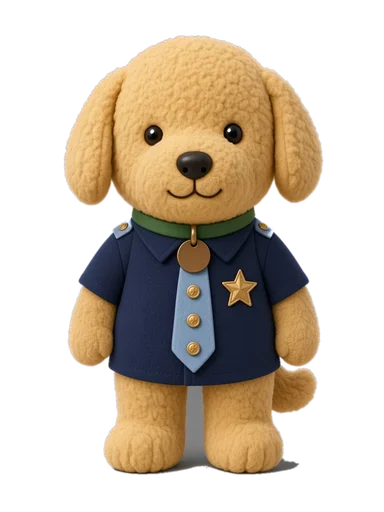
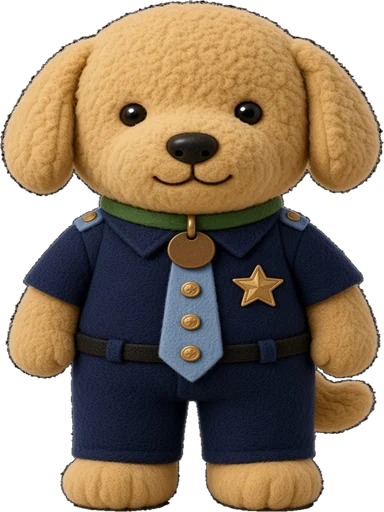
きせかえの位置を直し、警察官にズボンを追加 (v24)

diff --git a/data/shop.js b/data/shop.js
@@ -110,15 +110,15 @@ const ITEMS = [
   { id: "dogi", category: "clothes", slot: "clothes", name: "どうぎ", icon: "🥋", price: 500, image: "img/items/dogi.webp", wear: { w: 1.45, dy: 3 } },
   { id: "kimono", category: "clothes", slot: "clothes", name: "きもの", icon: "👘", price: 700, image: "img/items/kimono.webp", wear: { w: 1.4, dy: 3 } },
   { id: "delivery", category: "clothes", slot: "clothes", name: "はいたついん", icon: "📦", price: 500, image: "img/items/delivery.webp",
-    wear: { head: { image: "img/items/deliverycap.webp", w: 1.0, y: 7 } } },
+    wear: { head: { image: "img/items/deliverycap.webp", w: 1.1, y: 16 } } },
   { id: "chef", category: "clothes", slot: "clothes", name: "シェフ", icon: "🧑🍳", price: 550, image: "img/items/chef.webp",
     wear: { head: { image: "img/items/chefhat.webp", w: 0.85, y: 6 } } },
   { id: "waitress", category: "clothes", slot: "clothes", name: "ウェイトレス", icon: "☕", price: 500, image: "img/items/waitress.webp",
-    wear: { head: { image: "img/items/katyusha.webp", w: 0.9, y: 7 } } },
+    wear: { head: { image: "img/items/katyusha.webp", w: 1.15, y: 18 } } },
   { id: "ca", category: "clothes", slot: "clothes", name: "キャビンアテンダント", icon: "✈", price: 650, image: "img/items/ca.webp",
     wear: { head: { image: "img/items/cacap.webp", w: 0.7, y: 9 } } },
   { id: "wedding", category: "clothes", slot: "clothes", name: "ウェディングドレス", icon: "👰", price: 950, image: "img/items/wedding.webp",
-    wear: { head: { image: "img/items/veil.webp", w: 1.35, y: 33 } } },
+    wear: { head: { image: "img/items/veil.webp", w: 1.45, y: 26 } } },
   { id: "nurse", category: "clothes", slot: "clothes", name: "ナースふく", icon: "👩⚕", price: 550, image: "img/items/nurse.webp",
     wear: { w: 1.35, dy: 3, head: { image: "img/items/nursecap.webp", w: 0.75, y: 9 } } },
   { id: "police", category: "clothes", slot: "clothes", name: "けいさつかん", icon: "👮", price: 600, image: "img/items/police.webp",
@@ -128,18 +128,18 @@ const ITEMS = [
   { id: "heroine", category: "clothes", slot: "clothes", name: "プリキュア", icon: "💖", price: 900, image: "img/items/heroine.webp",
     wear: { w: 1.6, dy: 4, head: { image: "img/items/heroinebow.webp", w: 0.5, x: 0.3, y: 7 } } },
   { id: "robot", category: "clothes", slot: "clothes", name: "ロボット", icon: "🤖", price: 1000, image: "img/items/robot.webp",
-    wear: { w: 2.1, dy: 3, head: { image: "img/items/robothead.webp", w: 0.95, y: 14 } } },
+    wear: { w: 2.1, dy: 3, head: { image: "img/items/robothead.webp", w: 1.2, y: 28 } } },
 
   // アクセサリ（もつもの）
   { id: "basket", category: "accessory", slot: "bag", name: "かご", icon: "🧺", price: 330, image: "img/items/basket.webp", wear: { hold: "hand", w: 30, ay: 0.08 } },
-  { id: "tote", category: "accessory", slot: "bag", name: "トートバッグ", icon: "👜", price: 330, image: "img/items/tote.webp", wear: { hold: "shoulder", w: 30, side: "img/items/tote_side.webp" } },
+  { id: "tote", category: "accessory", slot: "bag", name: "トートバッグ", icon: "👜", price: 330, image: "img/items/tote.webp", wear: { hold: "shoulder", w: 28, kx: 0.34, ky: -6, side: "img/items/tote_side.webp" } },
   { id: "handbag", category: "accessory", slot: "bag", name: "ハンドバッグ", icon: "👛", price: 350, image: "img/items/handbag.webp", wear: { hold: "hand", w: 26, ay: 0.05, side: "img/items/handbag_side.webp" } },
   { id: "present", category: "accessory", slot: "bag", name: "プレゼント", icon: "🎁", price: 350, image: "img/items/present.webp", wear: { hold: "both", w: 42 } },
   { id: "hammer", category: "accessory", slot: "bag", name: "ピコピコハンマー", icon: "🔨", price: 380, image: "img/items/hammer.webp", wear: { hold: "hand", w: 26, ay: 0.85 } },
   { id: "backpack", category: "accessory", slot: "bag", name: "ランドセル", icon: "🎒", price: 400, image: "img/items/backpack.webp", wear: { hold: "back", w: 1.2, front: "img/items/backpack_straps.webp" } },
-  { id: "parasol", category: "accessory", slot: "bag", name: "ひがさ", icon: "⛱", price: 400, image: "img/items/parasol.webp", wear: { hold: "hand", w: 50, ax: 0.42, ay: 0.92, behind: true } },
+  { id: "parasol", category: "accessory", slot: "bag", name: "ひがさ", icon: "⛱", price: 400, image: "img/items/parasol.webp", wear: { hold: "hand", w: 80, ax: 0.55, ay: 0.94, behind: true } },
   { id: "briefcase", category: "accessory", slot: "bag", name: "かばん", icon: "💼", price: 450, image: "img/items/briefcase.webp", wear: { hold: "hand", w: 30, ay: 0.05, side: "img/items/briefcase_side.webp" } },
-  { id: "boston", category: "accessory", slot: "bag", name: "ボストンバッグ", icon: "👜", price: 450, image: "img/items/boston.webp", wear: { hold: "hand", w: 30, ay: 0.05, side: "img/items/boston_side.webp" } },
+  { id: "boston", category: "accessory", slot: "bag", name: "ボストンバッグ", icon: "👜", price: 450, image: "img/items/boston.webp", wear: { hold: "hand", w: 46, ay: 0.28, side: "img/items/boston_side.webp" } },
   { id: "carry", category: "accessory", slot: "bag", name: "キャリーバッグ", icon: "🧳", price: 500, image: "img/items/carry.webp", wear: { hold: "pull", w: 30, ay: 0.03, side: "img/items/carry_side.webp" } },
   { id: "hiking", category: "accessory", slot: "bag", name: "とざんの リュック", icon: "🏔", price: 550, image: "img/items/hiking.webp", wear: { hold: "back", w: 1.12, front: "img/items/hiking_straps.webp" } },
   { id: "stick", category: "accessory", slot: "bag", name: "まほうの ステッキ", icon: "🪄", price: 800, image: "img/items/stick.webp", wear: { hold: "hand", w: 26, ax: 0.3, ay: 0.72, side: "img/items/stick_side.webp" } },
@@ -148,20 +148,20 @@ const ITEMS = [
   { id: "sword", category: "accessory", slot: "bag", name: "せいけん", icon: "🗡", price: 1000, image: "img/items/sword.webp", wear: { hold: "hand", w: 36, ax: 0.2, ay: 0.82, side: "img/items/sword_side.webp" } },
 
   // こもの（あたま）
-  { id: "ribbon", category: "accessory", slot: "head", name: "リボン", icon: "🎀", price: 300, image: "img/items/ribbon.webp", wear: { w: 0.45, x: 0.32, y: 6 } },
-  { id: "hachimaki", category: "accessory", slot: "head", name: "はちまき", icon: "🎌", price: 300, image: "img/items/hachimaki.webp", wear: { w: 1.0, y: 14 } },
+  { id: "ribbon", category: "accessory", slot: "head", name: "リボン", icon: "🎀", price: 300, image: "img/items/ribbon.webp", wear: { w: 0.75, x: 0.32, y: 6 } },
+  { id: "hachimaki", category: "accessory", slot: "head", name: "はちまき", icon: "🎌", price: 300, image: "img/items/hachimaki.webp", wear: { w: 1.15, y: 20, by: { ribbon: { y: 24 }, pom: { y: 22 } } } },
   { id: "cap", category: "accessory", slot: "head", name: "キャップ", icon: "🧢", price: 350, image: "img/items/cap.webp", wear: { w: 1.1, y: 15 } },
-  { id: "strawhat", category: "accessory", slot: "head", name: "むぎわらぼうし", icon: "👒", price: 400, image: "img/items/strawhat.webp", wear: { w: 1.6, y: 13 } },
-  { id: "goggles", category: "accessory", slot: "head", name: "ゴーグル", icon: "🥽", price: 400, image: "img/items/goggles.webp", wear: { w: 0.95, y: 12 } },
+  { id: "strawhat", category: "accessory", slot: "head", name: "むぎわらぼうし", icon: "👒", price: 400, image: "img/items/strawhat.webp", wear: { w: 1.4, y: 22 } },
+  { id: "goggles", category: "accessory", slot: "head", name: "ゴーグル", icon: "🥽", price: 400, image: "img/items/goggles.webp", wear: { w: 0.95, y: 12, by: { ribbon: { w: 1.25, y: 26 }, pom: { w: 1.3, y: 32 } } } },
   { id: "tophat", category: "accessory", slot: "head", name: "シルクハット", icon: "🎩", price: 500, image: "img/items/tophat.webp", wear: { w: 1.05, y: 11 } },
-  { id: "halo", category: "accessory", slot: "head", name: "てんしの わ", icon: "😇", price: 500, image: "img/items/halo.webp", wear: { w: 0.55, y: -2 } },
+  { id: "halo", category: "accessory", slot: "head", name: "てんしの わ", icon: "😇", price: 500, image: "img/items/halo.webp", wear: { w: 0.8, y: -4 } },
   { id: "horns", category: "accessory", slot: "head", name: "あくまの つの", icon: "😈", price: 500, image: "img/items/horns.webp", wear: { w: 0.8, y: 5 } },
   { id: "gradcap", category: "accessory", slot: "head", name: "はかせぼう", icon: "🎓", price: 600, image: "img/items/gradcap.webp", wear: { w: 1.25, y: 12 } },
   { id: "witch", category: "accessory", slot: "head", name: "まじょの ぼうし", icon: "🧙", price: 600, image: "img/items/witch.webp", wear: { w: 1.15, y: 10 } },
   { id: "crown", category: "accessory", slot: "head", name: "おうかん", icon: "👑", price: 1000, image: "img/items/crown.webp", wear: { w: 0.95, y: 9 } },
-  { id: "tiara", category: "accessory", slot: "head", name: "ティアラ", icon: "💎", price: 500, image: "img/items/tiara_deluxe.webp", wear: { w: 0.85, y: 9 } },
+  { id: "tiara", category: "accessory", slot: "head", name: "ティアラ", icon: "💎", price: 500, image: "img/items/tiara_deluxe.webp", wear: { w: 1.35, y: 13 } },
   { id: "knit", category: "accessory", slot: "head", name: "ニットぼう", icon: "🧶", price: 350, image: "img/items/knit.webp", wear: { w: 1.0, y: 11 } },
-  { id: "santa", category: "accessory", slot: "head", name: "サンタの ぼうし", icon: "🎅", price: 450, image: "img/items/santa.webp", wear: { w: 1.2, y: 11 } },
+  { id: "santa", category: "accessory", slot: "head", name: "サンタの ぼうし", icon: "🎅", price: 450, image: "img/items/santa.webp", wear: { w: 1.15, y: 15, x: -0.05 } },
   { id: "pirate", category: "accessory", slot: "head", name: "かいぞくの ぼうし", icon: "🏴☠", price: 500, image: "img/items/pirate.webp", wear: { w: 1.3, y: 10 } },
 ];
 

diff --git a/js/util.js b/js/util.js
@@ -117,7 +117,7 @@ function addWear(wrap, charId, mood) {
     // 日傘のように 顔に かぶる ものや はねは、前から見たとき 体の うしろに まわす
     const behind = bag.wear && (bag.wear.behind || hold === "wings") && !back ? " wear-behind" : "";
     const node = renderItemVisual(shown, `wear wear-bag mood-${mood}${behind}`);
-    fitWear(node, "bag", bag.image && bag.wear, f, back);
+    fitWear(node, "bag", bag.image && bag.wear, f, back, charId);
     wrap.appendChild(node);
   }
 
@@ -126,14 +126,16 @@ function addWear(wrap, charId, mood) {
   const head = get("head") || (set && { image: set.image, name: clothes.name, wear: set });
   if (head) {
     const node = renderItemVisual(view(head), `wear wear-head mood-${mood}`);
-    fitWear(node, "head", head.image && head.wear, f, back);
+    fitWear(node, "head", head.image && head.wear, f, back, charId);
     wrap.appendChild(node);
   }
 }
 
 // 画像の服・こものを、キャラの体の位置と大きさに合わせる（絵文字のものは CSS の位置のまま）
-function fitWear(node, slot, w, f, back = false) {
+function fitWear(node, slot, w, f, back = false, charId = "") {
   if (!w || !f) return;
+  // キャラごとに 位置を かえる（耳や はっぱで 頭の形が ちがうため）
+  if (w.by && w.by[charId]) w = { ...w, ...w.by[charId] };
   const s = node.style;
   if (slot === "head") {
     // 頭の大きさに対して、キャラごとに ぼうしの大きさを ちょうせいする（hatScale）
@@ -163,10 +165,10 @@ function fitWear(node, slot, w, f, back = false) {
     s.top = f.neck + 14 + "%";
     s.transform = "translate(-50%, -50%)";
   } else if (w.hold === "shoulder") {
-    // かたひもの上のはしを かたに かけて、体の よこに さげる
+    // 肩ひもの 上はしを かたに かけて、体の よこに さげる
     s.width = w.w + "%";
-    s.left = f.bodyX + f.bodyW * 0.38 + "%";
-    s.top = f.neck + 1 + "%";
+    s.left = f.bodyX + f.bodyW * (w.kx ?? 0.42) + "%";
+    s.top = f.neck + (w.ky ?? 0) + "%";
     s.transform = "translate(-50%, 0)";
   } else {
     // hand・pull: 絵の (ax, ay) の ところを 手の位置に あわせる

diff --git a/sw.js b/sw.js
@@ -1,5 +1,5 @@
 // ファイルを更新したら CACHE の番号を上げる
-const CACHE = "manabi-ouchi-v23";
+const CACHE = "manabi-ouchi-v24";
 
 const FILES = [
   "./",
